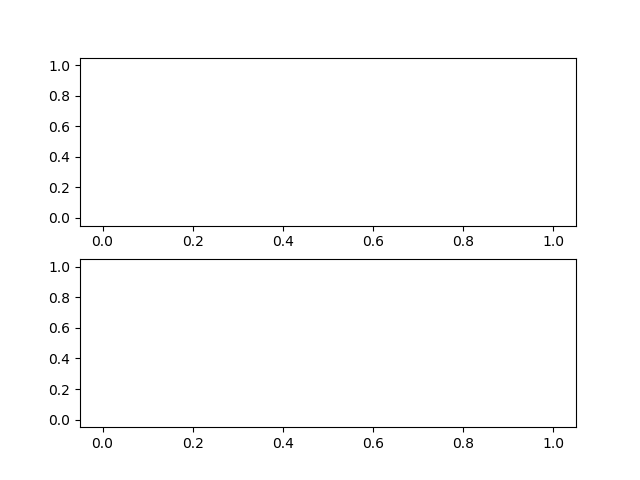
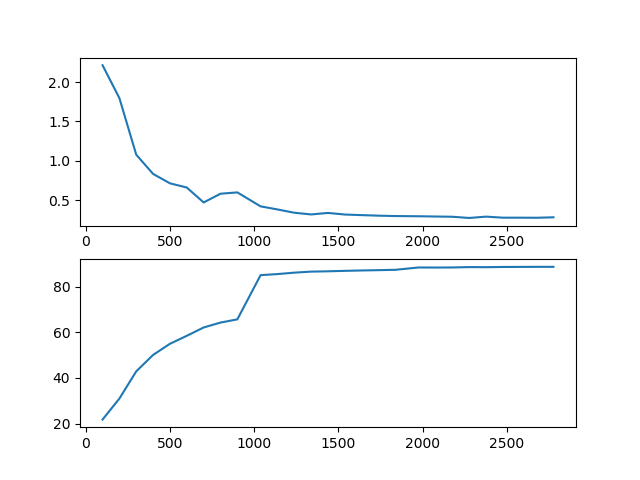
Fix logger not assingning

diff --git a/experimental/three.py b/experimental/three.py
@@ -60,9 +60,9 @@ def train(model: nn.Module, device,
                 writer.add_scalar('Training Accuracy', a, global_step)
 
             if logger is not None:
-                np.append(step, global_step)
-                np.append(train_accuracy, a)
-                np.append(train_loss, l)
+                step = np.append(step, global_step)
+                train_accuracy = np.append(train_accuracy, a)
+                train_loss = np.append(train_loss, l)
 
             running_loss = 0.0
 

diff --git a/experimental/main.py b/experimental/main.py
@@ -32,11 +32,7 @@ if __name__ == '__main__':
     # Tensorboard writer
     if graphs:
         writer = SummaryWriter(logger_location)
-
-        step = np.array([])
-        train_loss = np.array([])
-        train_accuracy = np.array([])
-        train_logger = (step, train_loss, train_accuracy)
+        train_logger = (np.array([]), np.array([]), np.array([]))
     else:
         writer = None
         train_logger = None
